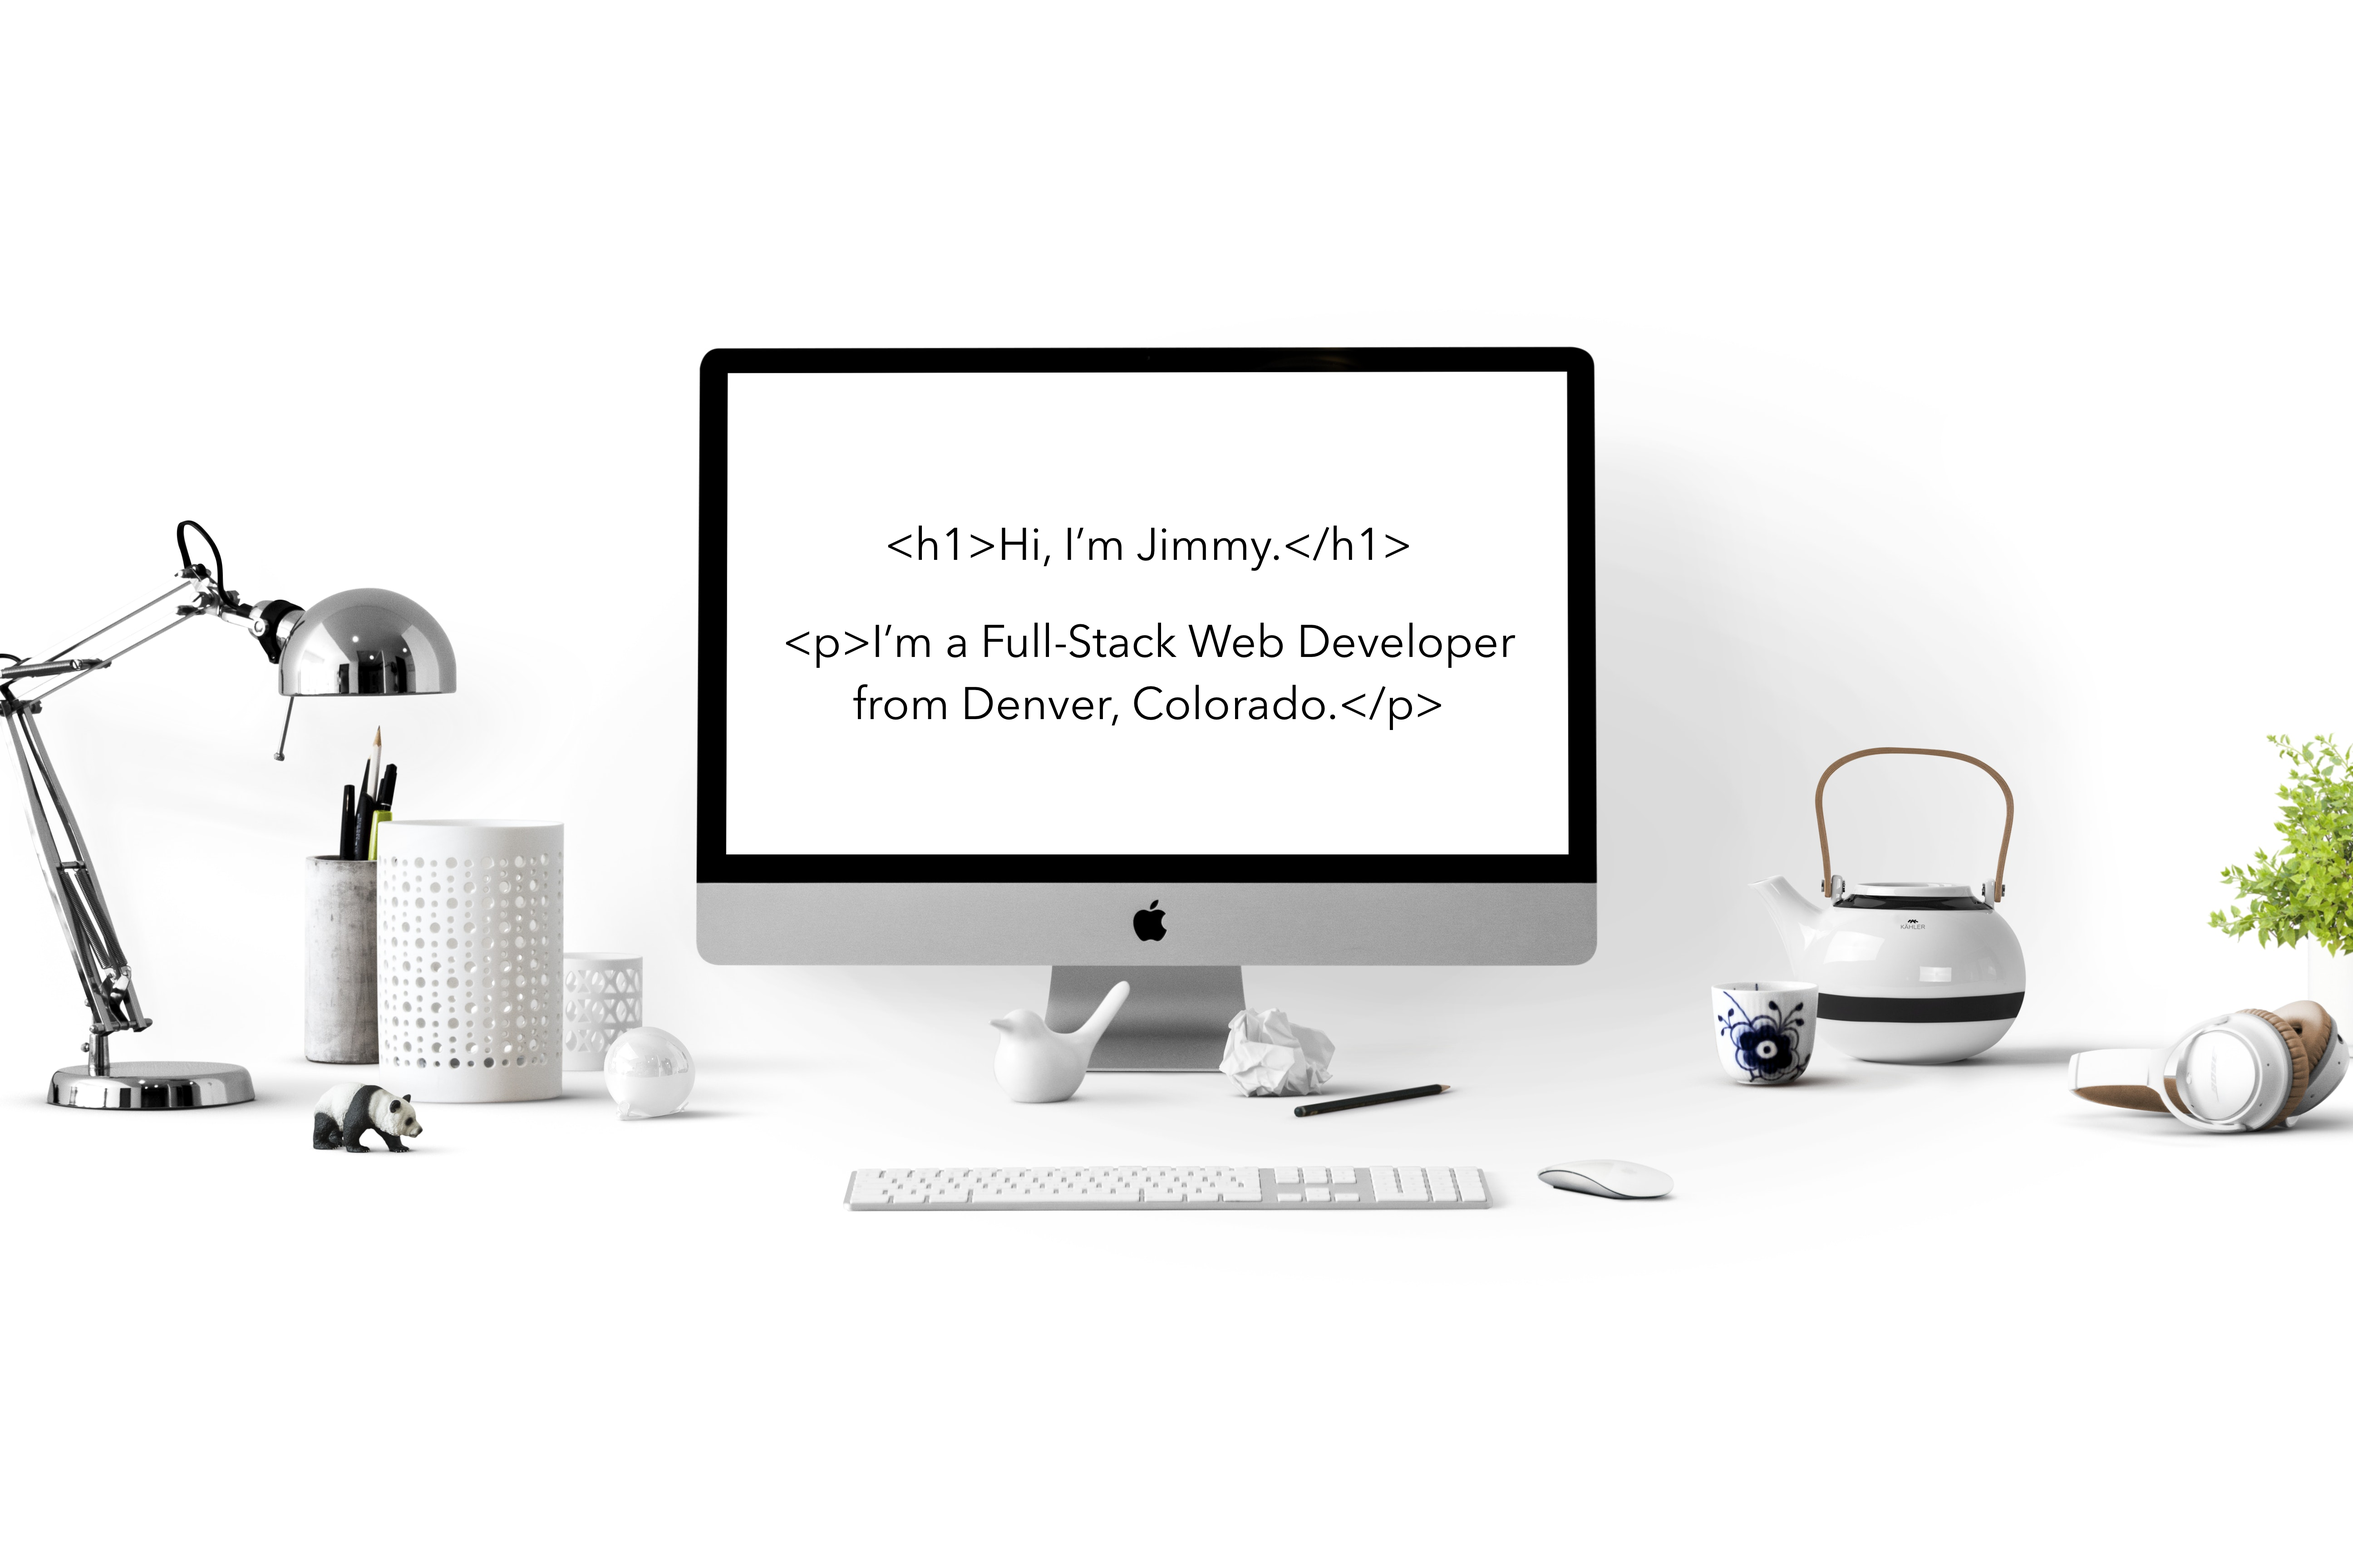
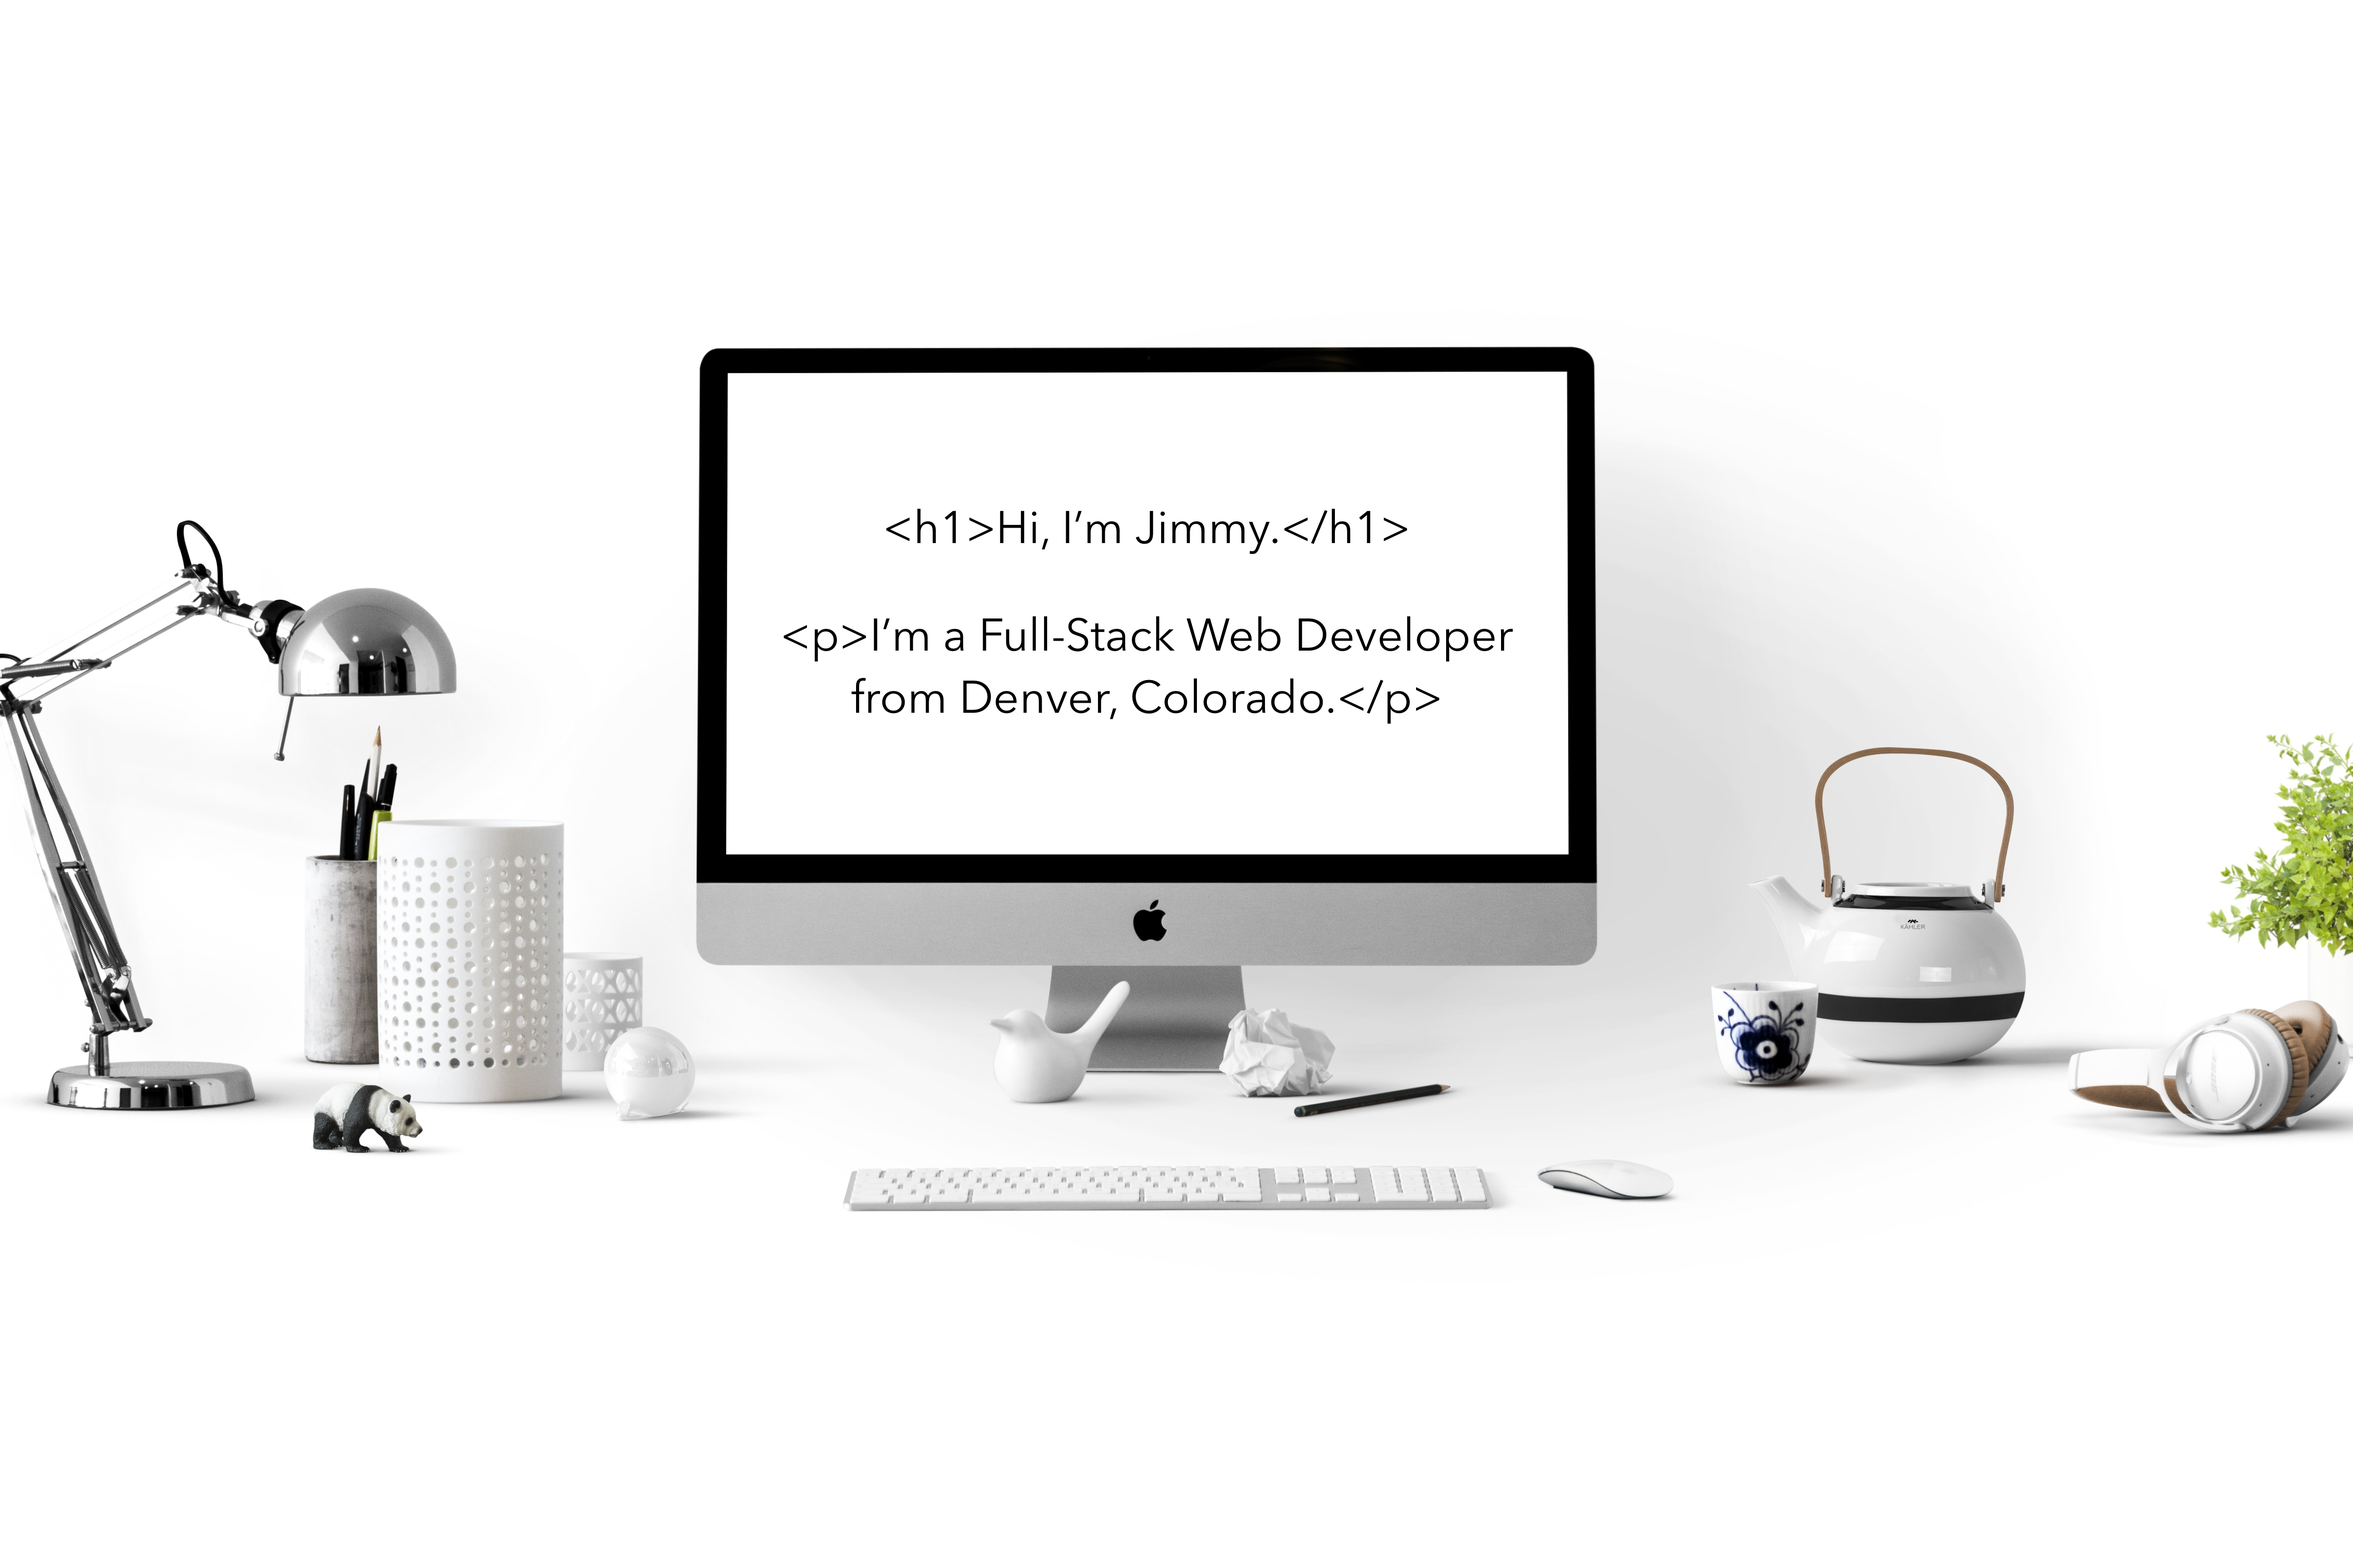
optimization.

Changed region(s): [[0.3438, 0.3125, 0.625, 0.4688], [0.5625, 0.3125, 0.5938, 0.3438]]

diff --git a/public/index.html b/public/index.html
@@ -33,32 +33,41 @@
         </ul>
     </div>
     <div class="parallax-container">
-        <div id="scale-demo" class="scale-transition scale-out"><img class="propic circle" src="/images/jimmy.jpeg" width="225px" />
+        <div id="scale-demo" class="load-hidden"><img class="propic circle" src="/images/jimmy.jpeg" width="225px" /></div>
+        <div class="parallax">
+            <img class="hero" src="/images/hero.png" width="100%">
         </div>
-        <div class="computer-hover"></div>
-        <div class="parallax"><img src="/images/hero.png" width="100%"></div>
     </div>
     <div class="section parallax-spacing">
         <div class="row container">
-            <div id="githublogo" class="githubdiv"><a href="https://github.com/jimbucktoo"><img src="/images/githublogo-w.png" width="50px"><img src="/images/github-w.png" width="100px"></a></div>
-            <div class="linkedindiv"><a href="https://www.linkedin.com/in/jimmy-liang/"><img id="linkedinlogo" src="/images/linkedin-w.png" width="130px"></a></div>
-            <div class="emaildiv">jamesliang.g@gmail.com</div>
+            <div id="githublogo" class="githubdiv col s12 m6 l4">
+                <center><a href="https://github.com/jimbucktoo"><img src="/images/githublogo-w.png" width="50px"><img src="/images/github-w.png" width="100px"></a></center>
+            </div>
+            <div class="linkedindiv col s12 m6 l4">
+                <center><a href="https://www.linkedin.com/in/jimmy-liang/"><img id="linkedinlogo" src="/images/linkedin-w.png" width="130px"></a></center>
+            </div>
+            <div class="emaildiv col s12 m12 l4">
+                <center>jamesliang.g@gmail.com</center>
+            </div>
         </div>
     </div>
     <div class="parallax-container">
-        <br>
-        <br>
-        <br>
+        <div class="lblskills">Skills:</div>
         <div class="parallax skills load-hidden"><img src="/images/skills.png" width="100%"></div>
     </div>
     <div class="section parallax-spacing">
         <div class="row container">
+            <div class="skillsdiv">var skills = [‘html5’, ’css3’, ’javascript’, ‘jquery’, ‘gulp.js’, ’webpack.js’,
+                <br> ‘react.js’, ’vue.js’, ‘express.js’, ‘node.js’,
+                <br> ‘mongodb’, ‘postgresql’, ‘git/github’, ‘npm’, ‘firebase’];</div>
         </div>
     </div>
     <div class="parallax-container">
-        <h3 class="portfolioheader">Projects:</h3>
-        <div class="portfoliolinks"><a href="https://landingpage-3a359.firebaseapp.com/" class="portfoliolink">&ltlink&gtlandingpage&lt/link&gt</a></div>
-        <div class="portfoliolinks"><a href="https://comodiscount.com/" class="portfoliolink">&ltlink&gtcomodiscount&lt/link&gt</a></div>
+        <div class="portfolioheader">
+            <div>Projects:</div>
+            <!-- <div class="portfoliolinks"><a href="https://landingpage-3a359.firebaseapp.com/" class="portfoliolink">&ltlink&gtlandingpage&lt/link&gt</a></div>
+            <div class="portfoliolinks"><a href="https://comodiscount.com/" class="portfoliolink">&ltlink&gtcomodiscount&lt/link&gt</a></div> -->
+        </div>
         <div class="parallax"><img src="/images/cover3.jpg" width="100%"></div>
     </div>
     <script type="text/javascript" src="/materialize.min.js"></script>
@@ -79,24 +88,25 @@
         var instances = M.Parallax.init(elems, options);
     });
 
-    ScrollReveal().reveal('.portfolioheader', { duration: 5000 });
-    ScrollReveal().reveal('.portfoliolinks', { delay: 1000 });
-    ScrollReveal().reveal('.portfoliolinks', { duration: 5000 });
-    ScrollReveal().reveal('.emaildiv', { duration: 5000 });
-    ScrollReveal().reveal('.githubdiv', { duration: 5000 });
-    ScrollReveal().reveal('.linkedindiv', { duration: 5000 });
-    ScrollReveal().reveal('.skills', { delay: 1000 });
-    ScrollReveal().reveal('.skills', { duration: 5000 });
+    ScrollReveal().reveal('.propic', { delay: 500 });
+    ScrollReveal().reveal('.propic', { duration: 3000 });
+    ScrollReveal().reveal('.portfolioheader', { duration: 3000 });
+    ScrollReveal().reveal('.portfoliolinks', { delay: 500 });
+    ScrollReveal().reveal('.portfoliolinks', { duration: 500 });
+    ScrollReveal().reveal('.emaildiv', { duration: 3000 });
+    ScrollReveal().reveal('.githubdiv', { duration: 3000 });
+    ScrollReveal().reveal('.linkedindiv', { duration: 3000 });
+    ScrollReveal().reveal('.skills', { delay: 500 });
+    ScrollReveal().reveal('.skills', { duration: 3000 });
+    ScrollReveal().reveal('.skillsdiv', { delay: 500 });
+    ScrollReveal().reveal('.skillsdiv', { duration: 3000 });
+    ScrollReveal().reveal('.lblskills', { delay: 500 });
+    ScrollReveal().reveal('.lblskills', { duration: 3000 });
+
 
     $(document).ready(function() {
         $('.sidenav').sidenav();
         $('.parallax').parallax();
-        $('.computer-hover').mouseenter(function() {
-            $('#scale-demo').removeClass('scale-out');
-        });
-        $('#scale-demo').click(function() {
-            $('#scale-demo').addClass('scale-out');
-        })
     });
     </script>
 </body>

diff --git a/public/app.css b/public/app.css
@@ -10,16 +10,21 @@ html.sr .load-hidden {
     background-color: #0288d1;
 }
 
-.parallax-container {
-    height: 800px;
-}
-
 .primaryGoal {
     background-color: #0277bd;
 }
 
 .hide {
     display: none;
+}
+
+.parallax {
+    height: 100%;
+    position: relative;
+}
+
+.parallax-container {
+    height: 50vw;
 }
 
 .parallax-spacing {
@@ -42,24 +47,25 @@ html.sr .load-hidden {
     margin-left: 100px;
     margin-top: 10px;
     font-family: 'Share Tech Mono', monospace;
-    font-size: 25px;
+    font-size: 20px;
 }
 
 .portfoliolinks {
-    margin-left: 30%;
+    margin-left: 10%;
 }
 
 .portfolioheader {
     font-family: 'Share Tech Mono', monospace;
-    margin-top: 30%;
-    margin-left: 20%;
+    margin-top: 25vw;
+    margin-left: 10vw;
+    font-size: 3vw;
 }
 
 .portfoliolink {
     color: black;
     margin-top: 5%;
     font-family: 'Share Tech Mono', monospace;
-    font-size: 25px;
+    font-size: 2vw;
 }
 
 .portfoliolink:hover {
@@ -67,7 +73,6 @@ html.sr .load-hidden {
     margin-top: 5%;
     margin-left: 1%;
     font-family: 'Share Tech Mono', monospace;
-    font-size: 25px;
 }
 
 .propic {
@@ -78,12 +83,28 @@ html.sr .load-hidden {
     z-index: 1;
 }
 
-.computer-hover {
-    background-color: transparent;
-    margin-top: 8%;
-    margin-left: 30%;
-    height: 320px;
-    width: 540px;
+.skillsdiv {
+    font-family: 'Share Tech Mono', monospace;
+    font-size: 20px;
+    text-align: center;
+}
+
+.h1tag {
+    font-family: 'Share Tech Mono', monospace;
+    font-size: 2vw;
+}
+
+.ptag {
+    margin-top: 5vw;
+    font-family: 'Share Tech Mono', monospace;
+    font-size: 2vw;
+}
+
+.lblskills {
+    margin-top: 3vw;
+    margin-left: 38.3vw;
+    font-family: 'Share Tech Mono', monospace;
+    font-size: 5vw;
 }
 
 #linkedinlogo {
@@ -97,4 +118,22 @@ html.sr .load-hidden {
 
 #githublogo:hover {
     opacity: 0.5;
+}
+
+@media only screen and (max-width: 1200px) {
+    .propic {
+        display: none;
+        position: fixed;
+        margin-left: 81%;
+        margin-top: 3%;
+        border: 5px solid black;
+        z-index: 1;
+    }
+}
+
+@media only screen and (max-width: 600px) {
+    .skillsdiv {
+        font-family: 'Share Tech Mono', monospace;
+        font-size: 13px;
+    }
 }
